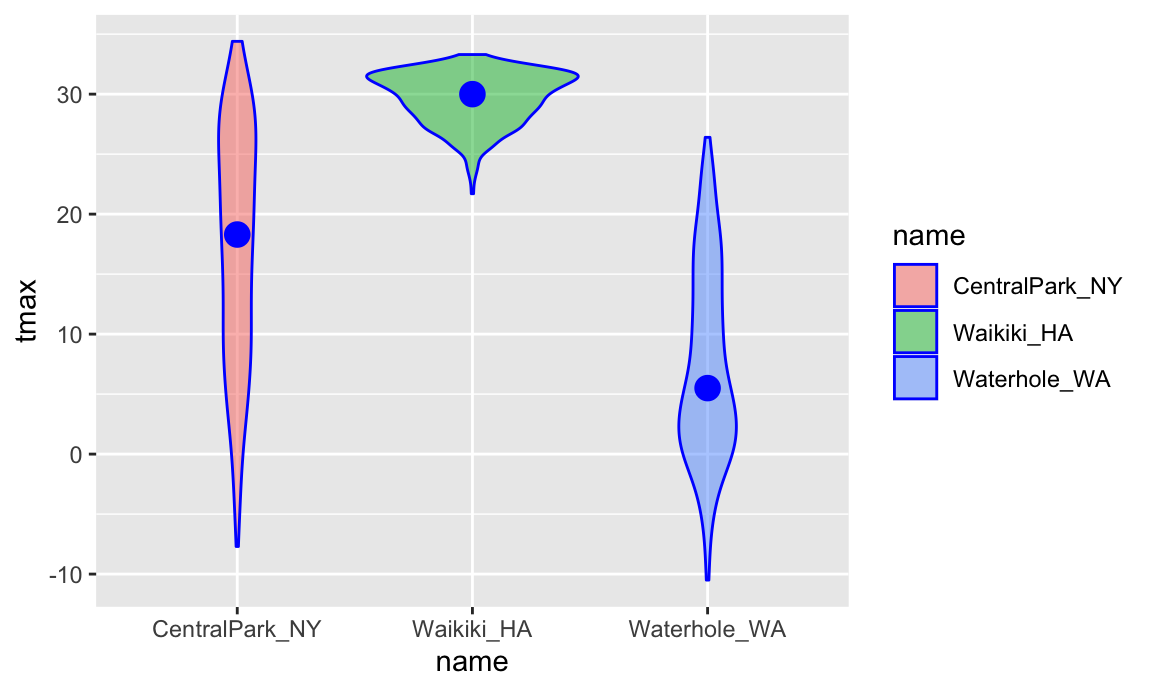
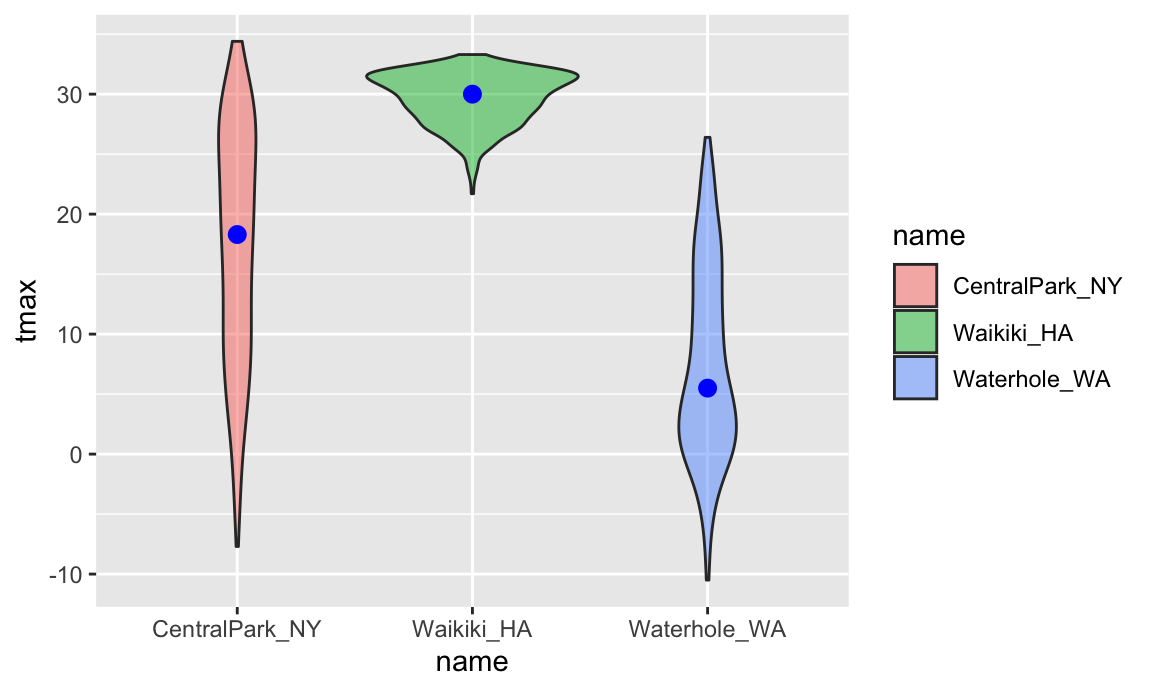
change stat_smooth()

diff --git a/visualization_pt1.html b/visualization_pt1.html
@@ -665,11 +665,11 @@ ggplot(weather_df) + geom_point(aes(x = tmax, y = tmin, color = &quot;blue&quot;
 <p><img src="visualization_pt1_files/figure-html/unnamed-chunk-18-1.png" width="90%" /></p>
 <p>Violin plots are sometimes nice, but folks complain that they don’t <a href="https://simplystatistics.org/2017/07/13/the-joy-of-no-more-violin-plots/">look like violins</a>.</p>
 <pre class="r"><code>ggplot(weather_df, aes(x = name, y = tmax)) + 
-  geom_violin(aes(fill = name), color = &quot;blue&quot;, alpha = .5) + 
-  stat_summary(fun.y = median, geom = &quot;point&quot;, color = &quot;blue&quot;, size = 4)
-## Warning: `fun.y` is deprecated. Use `fun` instead.
+  geom_violin(aes(fill = name), alpha = .5) + 
+  stat_summary(fun = &quot;median&quot;, color = &quot;blue&quot;)
 ## Warning: Removed 3 rows containing non-finite values (stat_ydensity).
-## Warning: Removed 3 rows containing non-finite values (stat_summary).</code></pre>
+## Warning: Removed 3 rows containing non-finite values (stat_summary).
+## Warning: Removed 3 rows containing missing values (geom_segment).</code></pre>
 <p><img src="visualization_pt1_files/figure-html/unnamed-chunk-19-1.png" width="90%" /></p>
 <p>Ridge plots were the trendiest plot of 2017, and were a replacement for both boxplots and violin plots. They’re implemented in the <a href="https://github.com/clauswilke/ggridges"><code>ggridges</code></a> package, and are nice if you have lots of categories in which the shape of the distribution matters.</p>
 <pre class="r"><code>ggplot(weather_df, aes(x = tmax, y = name)) + 
